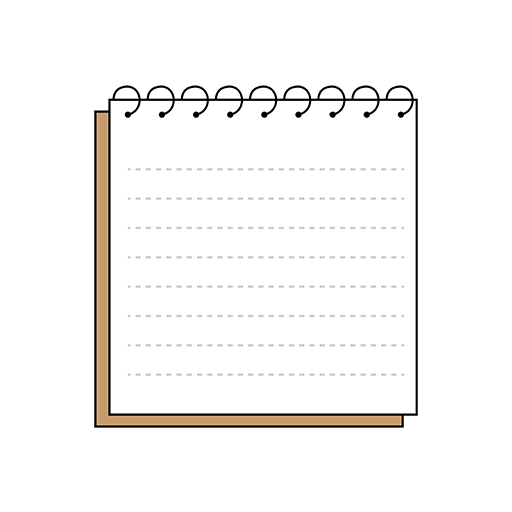
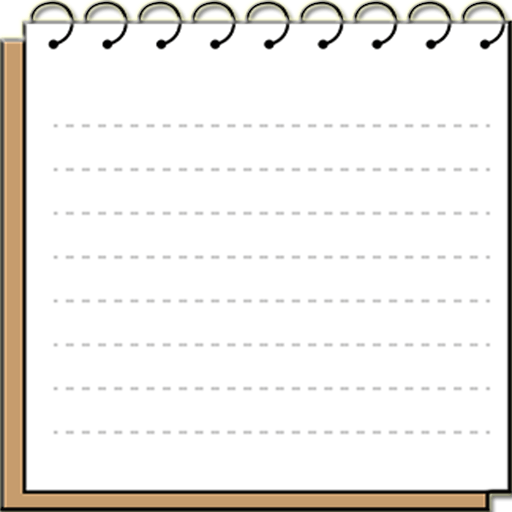
modified:   assets/images/carousel/notepaper.png 	modified:   lib/carousel/carousel_1.dart

diff --git a/lib/carousel/carousel_1.dart b/lib/carousel/carousel_1.dart
@@ -75,7 +75,7 @@ class _carouselSlider1State extends State<carouselSlider1> {
           return PageView.builder(
             itemCount: 1,
             itemBuilder: (context, index) {
-              //String kab = "Cilacap";
+              String kab = "Cilacap";
               String tahun = isiindikatorutama[index = 0].tahun.substring(0, 4);
               String bulan = isiindikatorutama[index = 0].bulan.substring(0, 3);
               String bln = "";
@@ -106,8 +106,8 @@ class _carouselSlider1State extends State<carouselSlider1> {
               }
 
               double mtom1 = double.parse(isiindikatorutama[index = 0].nilai);
-              //double yony1 = double.parse(isiindikatorutama[index = 2].nilai);
-              //double ytod1 = double.parse(isiindikatorutama[index = 1].nilai);
+              double yony1 = double.parse(isiindikatorutama[index = 2].nilai);
+              double ytod1 = double.parse(isiindikatorutama[index = 1].nilai);
               return Container(
                 decoration: BoxDecoration(
                   color: const Color.fromARGB(255, 231, 232, 233),
@@ -132,34 +132,105 @@ class _carouselSlider1State extends State<carouselSlider1> {
                         child: Container(
                           decoration: BoxDecoration(
                             border: Border.all(
-                                color:
-                                    const Color.fromARGB(255, 121, 123, 126)),
+                                color: const Color.fromARGB(255, 231, 232, 233),),
                             borderRadius: BorderRadius.circular(10),
                           ),
                           child: InkWell(
-                            splashColor: Colors.blueGrey,
                             onTap: () {},
+                            splashColor: Colors.blueGrey,
                             child: Column(
-                              mainAxisSize: MainAxisSize.min,
+                              //mainAxisSize: MainAxisSize.min,
                               children: [
-                                Image.asset(
-                                  'assets/images/jumlah_penduduk.png',
-                                  fit: BoxFit.cover,
-                                  width: screenWidth * 0.40,
-                                  height: screenHeight * 0.12,
-                                ),
                                 Container(
-                                  width: screenWidth * 0.30,
-                                  color: Colors.blue,
+                                  width: screenWidth * 0.40,
+                                  height: screenHeight * 0.025,
+                                  color: const Color.fromARGB(255, 231, 232, 233),
+                                  //margin: const EdgeInsets.only(left: 2, top:5),
                                   child: const Text(
-                                    'PENDUDUK',
+                                    "INFLASI (persen)",
                                     style: TextStyle(
-                                        color: Colors.white,
                                         fontWeight: FontWeight.bold,
-                                        fontSize: 11),
+                                        fontSize: 13),
                                     textAlign: TextAlign.center,
                                   ),
                                 ),
+                                Container(
+                                  width: screenWidth * 0.40,
+                                  height: screenHeight * 0.021,
+                                  color: const Color.fromARGB(255, 231, 232, 233),
+                                  //margin: const EdgeInsets.only(left: 2, top:5),
+                                  child: Text(
+                                    '$bln $tahun',
+                                    style:
+                                        const TextStyle(
+                                           fontSize: 12,
+                                           fontWeight: FontWeight.normal),
+                                    textAlign: TextAlign.center,
+                                  ),
+                                ),
+                                Container(
+                                  width: screenWidth * 0.40,
+                                  height: screenHeight * 0.022,
+                                  color: const Color.fromARGB(255, 231, 232, 233),
+                                  //margin: const EdgeInsets.only(left: 2, top:5),
+                                  child: const Text(
+                                    'm-to-m',
+                                    style:
+                                        TextStyle(
+                                           fontSize: 12,
+                                           fontWeight: FontWeight.normal),
+                                    textAlign: TextAlign.center,
+                                  ),
+                                ),
+                                Container(
+                                  width: screenWidth * 0.40,
+                                  height: screenHeight * 0.005,
+                                  color: const Color.fromARGB(255, 231, 232, 233),
+                                  //margin: const EdgeInsets.only(left: 2, top:5),
+                                  child: const Text(
+                                    '',
+                                    style:
+                                        TextStyle(
+                                           fontSize: 12,
+                                           fontWeight: FontWeight.normal),
+                                    textAlign: TextAlign.center,
+                                  ),
+                                ),
+
+                                Row(
+                                  children: [
+                                    Container(
+                                      width: screenWidth * 0.18,
+                                      height: screenHeight * 0.055,
+                                      alignment: Alignment.center,
+                                      margin: const EdgeInsets.only(top: 10),
+                                      child: SizedBox(
+                                       //width: 95,
+                                       //height: 95,
+                                       child: Image.asset(
+                                          'assets/images/carousel/inflasi_bulanan_icon.png',
+                                        alignment: Alignment.center,
+                                       ),
+                                      ),
+                                    ),
+                                    Container(
+                                      width: screenWidth * 0.18,
+                                      height: screenHeight * 0.035,
+                                      alignment: Alignment.center,
+                                      margin: const EdgeInsets.only(top: 10),
+                                      child: Text(
+                                        " ${Format.convertTo(mtom1, 2)}",
+                                        style: const TextStyle(
+                                            fontSize: 20,
+                                            fontWeight: FontWeight.bold,
+                                            color: Colors.blue)
+                                      ),
+                                    ),
+                                  ],
+                                ),
+                                //const SizedBox(height:6),
+
+                                //const SizedBox(height:10),
                               ],
                             ),
                           ),
@@ -180,8 +251,7 @@ class _carouselSlider1State extends State<carouselSlider1> {
                         child: Container(
                           decoration: BoxDecoration(
                             border: Border.all(
-                                color:
-                                    const Color.fromARGB(255, 121, 123, 126)),
+                                color: const Color.fromARGB(255, 231, 232, 233),),
                             borderRadius: BorderRadius.circular(10),
                           ),
                           child: InkWell(
@@ -192,51 +262,115 @@ class _carouselSlider1State extends State<carouselSlider1> {
                               children: [
                                 Container(
                                   width: screenWidth * 0.40,
-                                  height: screenHeight * 0.030,
-                                  color:
-                                      const Color.fromARGB(255, 211, 209, 204),
+                                  height: screenHeight * 0.025,
+                                  color: const Color.fromARGB(255, 231, 232, 233),
+                                  //margin: const EdgeInsets.only(left: 2, top:5),
                                   child: const Text(
-                                    'INFLASI',
+                                    "INFLASI (persen)",
                                     style: TextStyle(
                                         fontWeight: FontWeight.bold,
-                                        fontSize: 16),
+                                        fontSize: 13),
                                     textAlign: TextAlign.center,
                                   ),
                                 ),
                                 Container(
                                   width: screenWidth * 0.40,
-                                  height: screenHeight * 0.030,
-                                  color:
-                                      const Color.fromARGB(255, 211, 209, 204),
+                                  height: screenHeight * 0.021,
+                                  color: const Color.fromARGB(255, 231, 232, 233),
                                   //margin: const EdgeInsets.only(left: 2, top:5),
-                                  child: const Text(
-                                    "Month to Month:",
+                                  child: Text(
+                                    '$bln $tahun',
                                     style:
-                                        TextStyle(fontWeight: FontWeight.bold),
+                                        const TextStyle(
+                                           fontSize: 12,
+                                           fontWeight: FontWeight.normal),
                                     textAlign: TextAlign.center,
                                   ),
                                 ),
-
+                                Container(
+                                  width: screenWidth * 0.40,
+                                  color: const Color.fromARGB(255, 231, 232, 233),
+                                 child: Row(
+                                  children: [
+                                    SizedBox(
+                                      width: screenWidth * 0.18,
+                                      height: screenHeight * 0.022,
+                                      //color: const Color.fromARGB(255, 231, 232, 233),
+                                      //alignment: Alignment.center,
+                                      //margin: const EdgeInsets.only(top: 0),
+                                      child: const Text(
+                                        "y-to-d",
+                                         textAlign: TextAlign.center,
+                                        style: TextStyle(
+                                           fontSize: 12,
+                                           fontWeight: FontWeight.normal),
+                                      ),
+                                    ),
+                                    SizedBox(
+                                      width: screenWidth * 0.185,
+                                      height: screenHeight * 0.022,
+                                      //color: const Color.fromARGB(255, 231, 232, 233),
+                                      //alignment: Alignment.center,
+                                      //margin: const EdgeInsets.only(top: 0),
+                                      child: const Text(
+                                        "y-on-y",
+                                         textAlign: TextAlign.center,
+                                        style: TextStyle(
+                                            fontSize: 12,
+                                           fontWeight: FontWeight.normal),
+                                      ),
+                                    ),
+                                   
+                                  ],
+                                ),
+                                ),
+                                SizedBox(
+                                  width: screenWidth * 0.40,
+                                 child: Row(
+                                  children: [
+                                    Container(
+                                      width: screenWidth * 0.365,
+                                      height: screenHeight * 0.005,
+                                      color: const Color.fromARGB(255, 231, 232, 233),
+                                      alignment: Alignment.center,
+                                      margin: const EdgeInsets.only(top: 0),
+                                      child: const Text(
+                                        " ",
+                                        style: TextStyle(
+                                           fontSize: 12,
+                                           fontWeight: FontWeight.normal),
+                                      ),
+                                    ),
+                                    
+                                  ],
+                                ),
+                                ),
                                 Row(
                                   children: [
                                     Container(
-                                      width: screenWidth * 0.18,
+                                      width: screenWidth * 0.17,
                                       height: screenHeight * 0.035,
                                       alignment: Alignment.center,
-                                      margin: const EdgeInsets.only(top: 10),
+                                      margin: const EdgeInsets.only(top: 15),
                                       child: Text(
-                                        " ${Format.convertTo(mtom1, 2)}%",
-                                        style: const TextStyle(fontSize: 20),
+                                        " ${Format.convertTo(ytod1, 2)}",
+                                        style: const TextStyle(
+                                            fontSize: 20,
+                                            fontWeight: FontWeight.bold,
+                                            color: Colors.blue)
                                       ),
                                     ),
                                     Container(
                                       width: screenWidth * 0.18,
                                       height: screenHeight * 0.035,
                                       alignment: Alignment.center,
-                                      margin: const EdgeInsets.only(top: 10),
+                                      margin: const EdgeInsets.only(top: 15),
                                       child: Text(
-                                        " ${Format.convertTo(mtom1, 2)}%",
-                                        style: const TextStyle(fontSize: 20),
+                                        " ${Format.convertTo(yony1, 2)}",
+                                        style: const TextStyle(
+                                            fontSize: 20,
+                                            fontWeight: FontWeight.bold,
+                                            color: Colors.blue)
                                       ),
                                     ),
                                   ],
